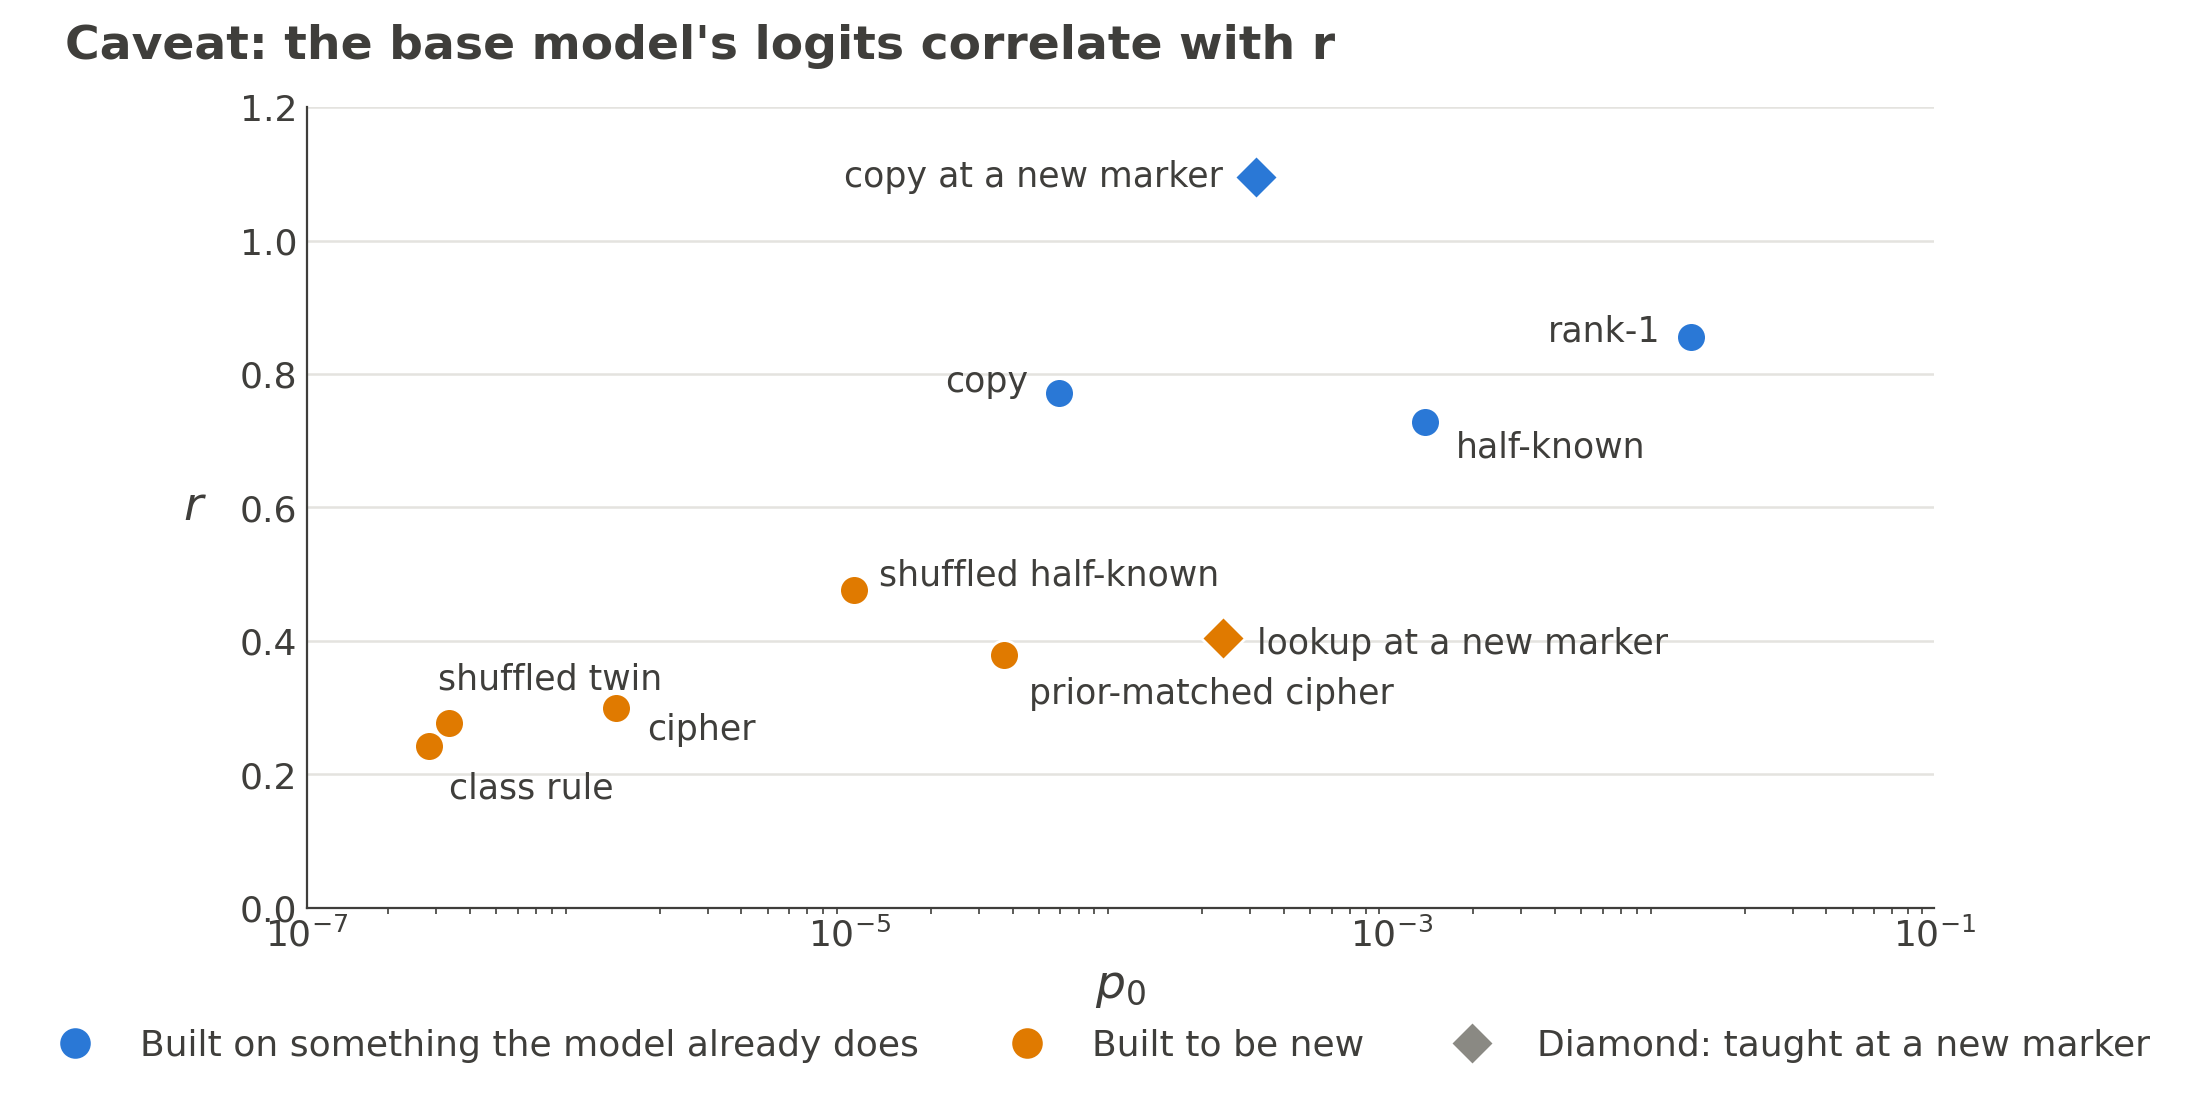
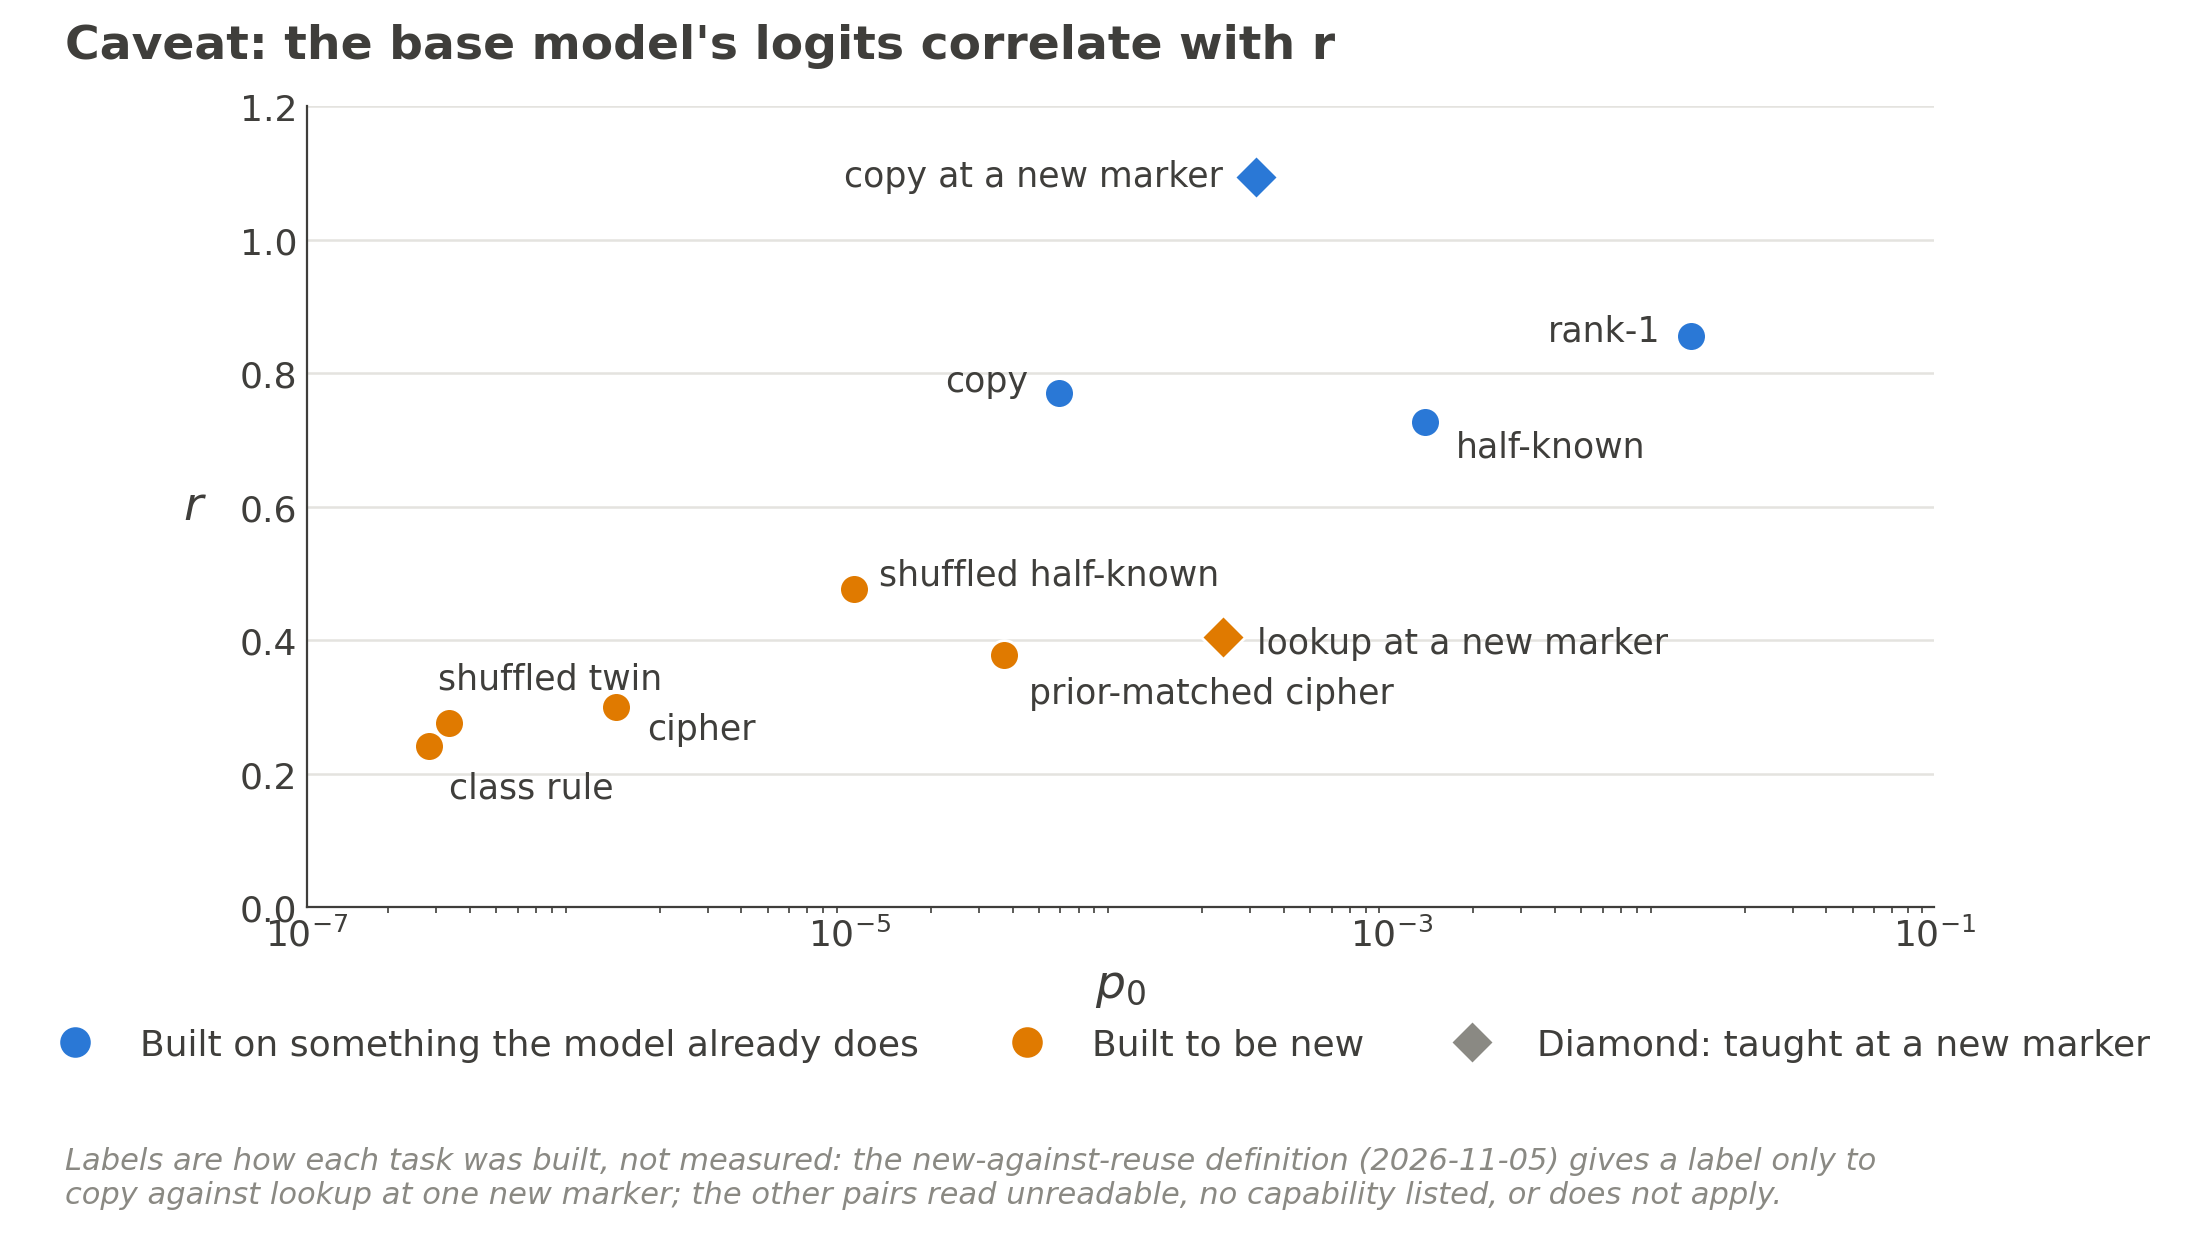
Deck figures: note that new/existing labels stay assumptions (ask 21); R7 closes row 118's condition, A3 stands

diff --git a/experiments/open_pair/plot_q2_deck.py b/experiments/open_pair/plot_q2_deck.py
@@ -55,6 +55,15 @@ def mean(v: list[float]) -> float:
     return sum(v) / len(v)
 
 
+ASSUMED = ("Labels are how each task was built, not measured: the new-against-reuse definition (2026-11-05) gives a label only to\n"
+           "copy against lookup at one new marker; the other pairs read unreadable, no capability listed, or does not apply.")
+
+
+def assumed(fig: Any, y: float) -> None:
+    """The note the user asked for (ask 21): every new-against-existing figure says its labels stay assumptions."""
+    fig.text(0.01, y, ASSUMED, ha="left", va="top", fontsize=11, color=GREY, style="italic")
+
+
 def save(fig: Any, name: str) -> None:
     fig.savefig(FIG / name, dpi=200, facecolor="white", bbox_inches="tight", pad_inches=0.12)
     plt.close(fig)
@@ -83,6 +92,7 @@ def routes() -> None:
         symbol(ax, name)
     fig.subplots_adjust(wspace=0.42)
     headline(fig, "Copying and random maps look alike in the update but take different routes")
+    assumed(fig, -0.06)
     save(fig, "q2_routes.png")
 
 
@@ -129,6 +139,7 @@ def every_family() -> None:
                Line2D([], [], marker="o", ls="", ms=10, color=ORANGE, label="Built to be new")]
     fig.legend(handles=handles, loc="lower center", ncol=2, frameon=False, bbox_to_anchor=(0.5, -0.07))
     headline(fig, "r keeps a wide gap on every family we built; steering separates only copy")
+    assumed(fig, -0.13)
     save(fig, "q2_every_family.png")
 
 
@@ -164,6 +175,7 @@ def r_vs_prior() -> None:
                Line2D([], [], marker="o", ls="", ms=10, color=ORANGE, label="Built to be new"),
                Line2D([], [], marker="D", ls="", ms=9, color=GREY, label="Diamond: taught at a new marker")]
     fig.legend(handles=handles, loc="lower center", ncol=3, frameon=False, bbox_to_anchor=(0.5, -0.07))
+    assumed(fig, -0.12)
     save(fig, "q2_r_vs_prior.png")
 
 

diff --git a/decisions.md b/decisions.md
@@ -151,3 +151,4 @@ from one, say so explicitly.
 | Comparisons quoting anchor 2 state that on author questions known facts fell about thirty points at both seeds and invented names appear (E88 Amendment 1), so a reading on it may be a pull to the training's names. The label stands by the amendment's filed outcome table. | 2026-11-05 | Whole-set falls 7.4 and 11.1 points; the 10-point limit was filed for the first seed's update only. | E88 Amendment 1, `reports/analyses/2026-11-05_analysis_e88-anchor-checks.md` |
 | The anchor comparison reads both the full update and the matched step, as the plan's rows say, but the matched step is a size control only: any claim that an update adds something new rests on the full update, with its size stated. Anchor 2 is also saved at both seeds at its first state past the learning line, for the rows to read. This replaces the plan's "the matched-step reading is the one the comparison leans on". | 2026-11-05 | At anchor 1's size TOFU recalls its facts like the unchanged model (E91), so a matched-step gap cannot speak to new content. | user, 2026-11-05, ask 11 (recommended option plus the addition; said it was a weak endorsement, not fully following the question) |
 | E96: on the 67M, a sweep of heads re-finds copying head (2,4) without the prefix score; lowercase reads unreadable at this grain, with row 121's two behavioural numbers beside (W₀'s probability of the target about 0.0012, the fine-tune's gain about 1.6). A working choice, not a change of definition: under the definition lowercase stays "does not apply". | 2026-11-05 | The sweep's top head on all three copy seeds is (2,4), at 0.47-0.56 against lookup's best 0.13-0.15, though E62 had already pointed there. On lowercase no head or pair removes the gain, and about half of the best share is W₀ rising with the part off. Provisional, no independent check. | E96, `reports/analyses/2026-11-05_analysis_e96-locate-mechanism.md`; Fable's advice, `reports/reviews/2026-11-05_review_e96-next-fable-advice.md` |
+| Row 118's condition on R7 is met (definition-lead, 2026-11-05): R7 read "does not reach the states", a miss of its filed "not specific" (`reports/analyses/2026-11-05_analysis_e90-old-labels.md`, R7 row). Its capability, the original model's own leaning to the target, is option B of ask 21's question 1 ("count W₀'s own output as a capability"), which the user declined, and question 2 kept constant-answer tasks at "does not apply" with prior and gain beside them. A3 stands; no new ask. | 2026-11-05 | The batch report did not name R7, but both its result and the user's choice point the same way | definition-lead, from ask 21 (user, 2026-11-05) |

diff --git a/docs/research_log/PENDING.md b/docs/research_log/PENDING.md
@@ -8,3 +8,4 @@ clerk: find it in the changelog rather than re-adding it (friction 84, 117).
 A flush applies every line to `parts/` (README.md → Layout), rebuilds, republishes, and moves the lines to the changelog row it writes, leaving this list empty.
 A line starting `HOLD ` (not `- `) stays in `PENDING.md` through a flush: use it for a line whose report was found wrong, in place of removing it. It reads `HOLD YYYY-MM-DD <role> · <why> · <the line>`; a clerk skips it, and the role that held it restores or deletes it (friction 317).
 - 2026-11-05 mechanism-detection-lead: E96 independent check (reports/reviews/2026-11-05_review_e96-independent-check.md): holds with caveat. Both filed outcomes stand in every unit tried; the 0.25 vs 1.18 gap is context length (64-token windows vs whole rows); 'about half is W₀ rising' holds only on 64-token windows; printed probabilities were at the mean log-odds (W₀'s mean probability 0.074, not 0.0012). Update the E96 card.
+- 2026-11-05 definition-lead · experiments/open_pair/figures/q2_{routes,every_family,r_vs_prior}.png, decisions.md · decisions section (one line) · The deck's three new-against-existing figures now carry the note that their labels are how the tasks were built, not measured (ask 21). R7's miss closes row 118's condition: A3 (constant answer: does not apply) stands.
